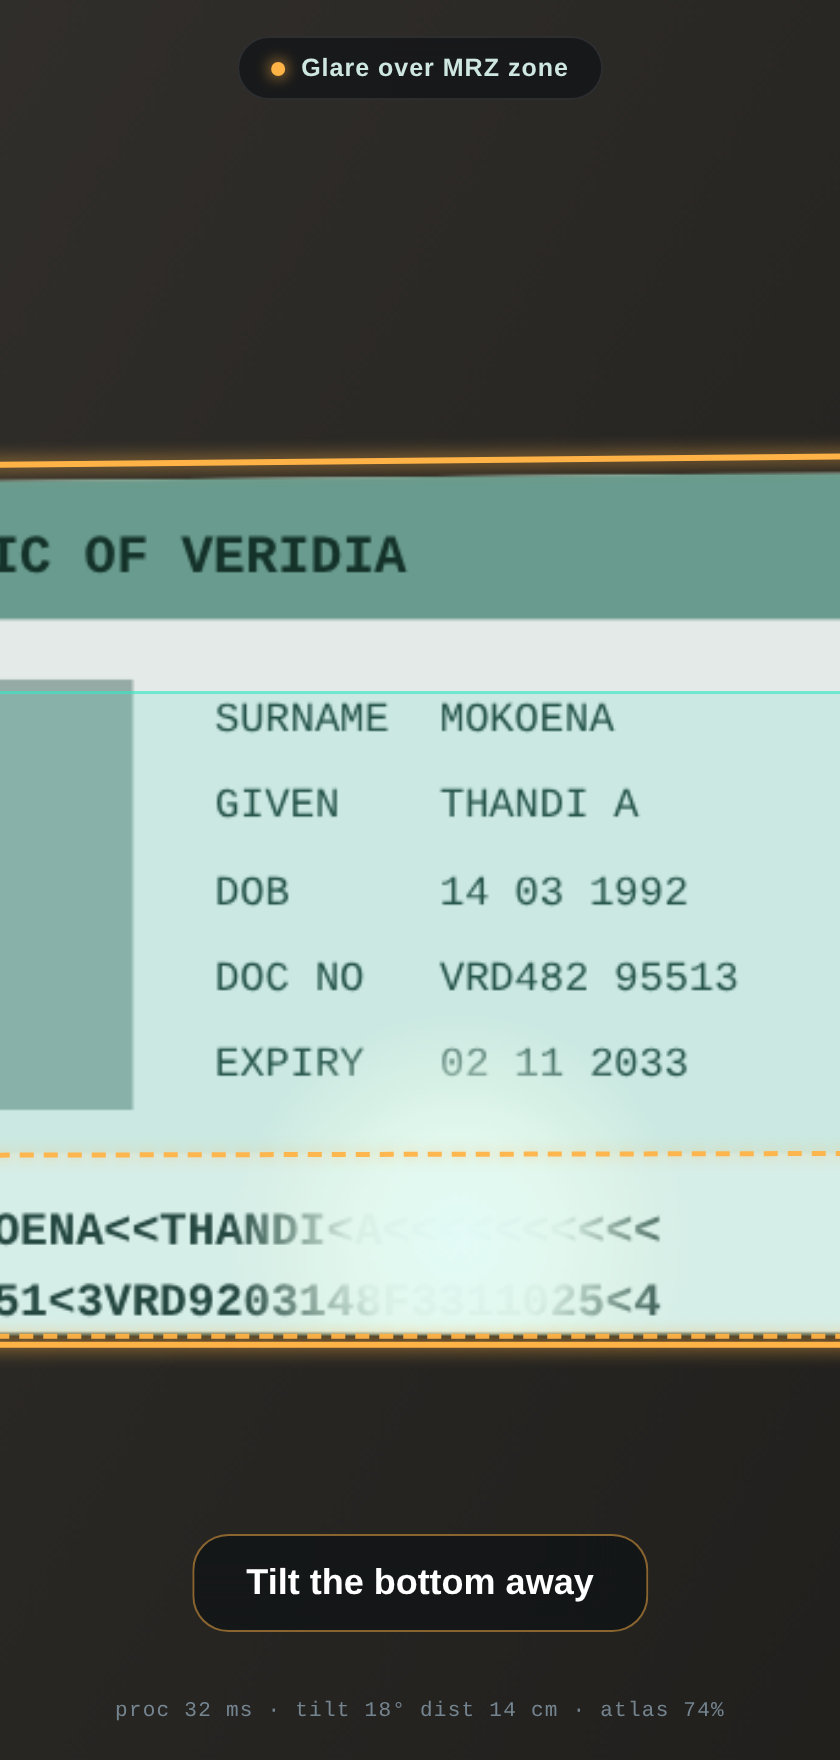
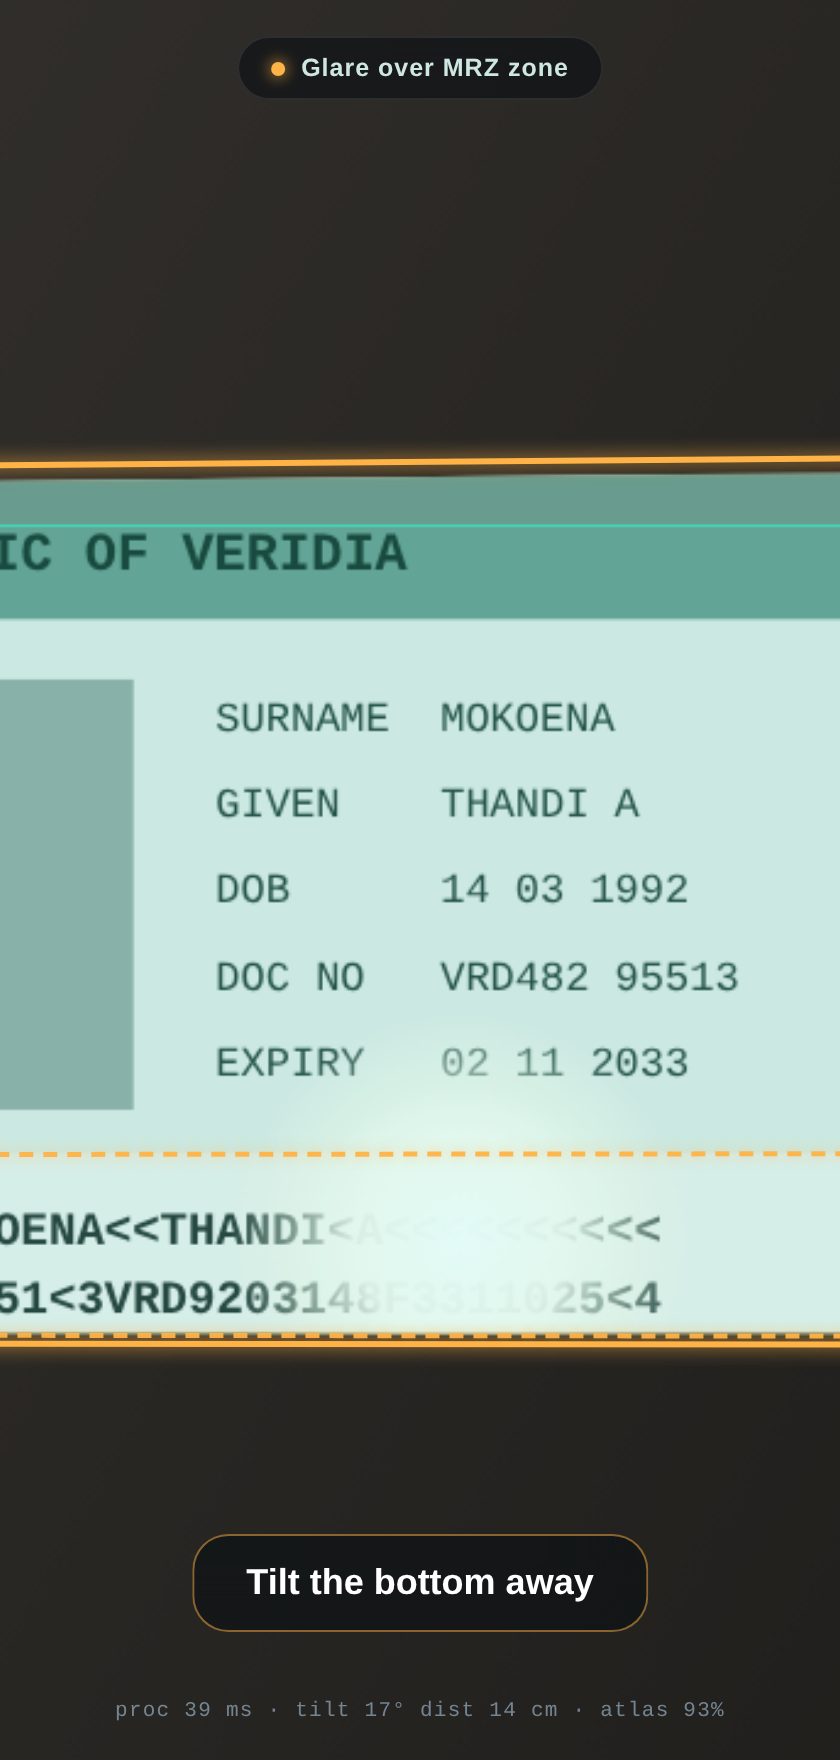
Stability pass from real-device feedback: smoother, calmer, faster
- Downscale processing frames to 960px (full-res getImageData was
  killing phone frame rates; headless proc time 33ms -> 5ms)
- Track-loss grace: outline holds through 12 missed detections instead
  of flickering off on a single dropped frame
- Competing-contour filter: a quad that teleports >18% of frame width
  is ignored unless it persists 5 frames
- Adaptive corner smoothing: heavy damping at rest, responsive in motion
- Coach debounce: new message needs 7 consistent frames, shown messages
  stay >=1.2s — no flapping
- Per-zone glare hysteresis (3-up/decay-down counter) so callouts don't
  strobe on borderline highlights
- Atlas sharpness now self-calibrates per zone relative to the best
  score seen this session instead of a fixed synthetic threshold

https://claude.ai/code/session_015UCbErKJk2oGsLNqDW1b71

diff --git a/web/js/app.js b/web/js/app.js
@@ -26,16 +26,35 @@ const state = {
   corners: null,           // smoothed corners (display space)
   lastCorners: null,
   stableFrames: 0,
+  lostFrames: 0,           // consecutive frames without an acceptable quad
+  jumpFrames: 0,           // consecutive frames where the quad jumped far away
+  pendingJump: null,       // candidate far-away quad (competing contour filter)
   atlas: null,
   pose: null,
   bestFrame: { score: -1, canvas: null },
   glareZones: [],
+  glareCounters: {},       // per-zone hysteresis counters
   coachMsg: { code: 'show', text: 'Show your ID.' },
+  coachCandidate: { code: null, frames: 0 },
+  coachShownAt: 0,
   frameCount: 0,
   t0: 0,
   procW: 0, procH: 0,      // processing frame size
   demo: null,
   lastInferMs: 0,
+};
+
+// stability tuning (real-device feel)
+const TUNE = {
+  maxProcWidth: 960,       // downscale capture for processing (phone perf)
+  lockFrames: 6,           // stable frames before LOCKED
+  graceFrames: 12,         // keep outline through this many missed detections
+  jumpFrac: 0.18,          // quad center jump > this fraction of width = suspect
+  jumpConfirm: 5,          // frames a far-away quad must persist to win
+  coachConfirmFrames: 7,   // frames a new message must persist before showing
+  coachMinShowMs: 1200,    // minimum time a shown message stays up
+  glareOn: 3, glareCap: 6, // zone glare hysteresis counter thresholds
+  analyzeEvery: 2,         // heavy UV analysis every Nth frame
 };
 
 // ---------- boot ----------
@@ -158,15 +177,18 @@ function drawDemoFrame() {
 const work = { src: null, cap: null };
 
 function grabFrame() {
-  let w, h, source;
+  let sw, sh, source;
   if (state.mode === 'demo') {
     source = drawDemoFrame();
-    w = source.width; h = source.height;
+    sw = source.width; sh = source.height;
   } else {
     source = els.video;
-    w = source.videoWidth; h = source.videoHeight;
-    if (!w) return null;
+    sw = source.videoWidth; sh = source.videoHeight;
+    if (!sw) return null;
   }
+  // downscale for processing — full-res getImageData murders phone frame rates
+  const scale = Math.min(1, TUNE.maxProcWidth / sw);
+  const w = Math.round(sw * scale), h = Math.round(sh * scale);
   if (!work.cap || work.cap.width !== w) {
     work.cap = document.createElement('canvas');
     work.cap.width = w; work.cap.height = h;
@@ -192,9 +214,28 @@ function loop() {
   requestAnimationFrame(loop);
 }
 
+function quadCenter(c) {
+  return { x: (c[0].x + c[1].x + c[2].x + c[3].x) / 4, y: (c[0].y + c[1].y + c[2].y + c[3].y) / 4 };
+}
+
 function processFrame(src) {
   state.frameCount++;
-  const quad = P.detectQuad(src);
+  let quad = P.detectQuad(src);
+
+  // competing-contour filter: while locked, a quad that teleports far away is
+  // probably a different rectangle in the scene — ignore unless it persists
+  if (quad && state.corners && state.phase === 'LOCKED') {
+    const jump = Math.hypot(
+      quadCenter(quad.corners).x - quadCenter(state.corners).x,
+      quadCenter(quad.corners).y - quadCenter(state.corners).y) / state.procW;
+    if (jump > TUNE.jumpFrac) {
+      state.jumpFrames++;
+      if (state.jumpFrames < TUNE.jumpConfirm) quad = null; // treat as miss (grace below keeps outline)
+      else { state.corners = quad.corners.map(p => ({ ...p })); state.jumpFrames = 0; }
+    } else {
+      state.jumpFrames = 0;
+    }
+  }
 
   // motion = mean corner displacement / frame width
   let motion = 0;
@@ -205,44 +246,58 @@ function processFrame(src) {
     }
     motion /= 4 * state.procW;
   }
-  state.lastCorners = quad ? quad.corners : null;
+  if (quad) state.lastCorners = quad.corners;
 
   if (!quad) {
     state.stableFrames = 0;
-    if (state.phase === 'LOCKED') state.phase = 'SEARCHING';
-    state.corners = null;
-    state.coachMsg = P.coach({ quad: null });
+    state.lostFrames++;
+    // grace period: hold the outline through brief detection dropouts
+    if (state.lostFrames > TUNE.graceFrames) {
+      if (state.phase === 'LOCKED') state.phase = 'SEARCHING';
+      state.corners = null;
+      state.lastCorners = null;
+      updateCoach('show', 'Show your ID.');
+    }
     return;
   }
+  state.lostFrames = 0;
 
-  // exponential smoothing for display corners
+  // adaptive smoothing: heavy damping at rest, responsive during motion
   if (!state.corners) state.corners = quad.corners.map(p => ({ ...p }));
   else {
-    const a = 0.45;
+    const a = Math.min(0.6, Math.max(0.15, 0.15 + motion * 6));
     for (let i = 0; i < 4; i++) {
       state.corners[i].x += a * (quad.corners[i].x - state.corners[i].x);
       state.corners[i].y += a * (quad.corners[i].y - state.corners[i].y);
     }
   }
 
-  state.stableFrames = motion < 0.02 ? state.stableFrames + 1 : 0;
-  if (state.phase === 'SEARCHING' && state.stableFrames >= 4) {
+  state.stableFrames = motion < 0.025 ? state.stableFrames + 1 : 0;
+  if (state.phase === 'SEARCHING' && state.stableFrames >= TUNE.lockFrames) {
     state.phase = 'LOCKED';
     haptic(30);
   }
 
-  // full analysis only when locked (and every frame — preview-res is cheap)
-  let glare = null, sharp = null;
-  if (state.phase === 'LOCKED') {
+  // heavy UV analysis only when locked, and only every Nth frame
+  if (state.phase === 'LOCKED' && state.frameCount % TUNE.analyzeEvery === 0) {
     const uv = P.rectify(src, quad.corners);
-    glare = P.analyzeGlare(uv);
-    sharp = P.analyzeSharpness(uv);
+    const glare = P.analyzeGlare(uv);
+    const sharp = P.analyzeSharpness(uv);
     state.pose = P.estimatePose(quad.corners, state.procW, state.procH);
     state.atlas.update(glare, sharp);
 
-    state.glareZones = Object.entries(glare.perZone)
-      .filter(([n, z]) => z.glared && P.ZONES[n].critical && !state.atlas.zoneState[n].clean)
-      .map(([n]) => n);
+    // per-zone glare hysteresis: a zone must be glared in several recent
+    // frames to surface, and clear for several to disappear
+    for (const [n, z] of Object.entries(glare.perZone)) {
+      const cnt = state.glareCounters[n] || 0;
+      state.glareCounters[n] = z.glared
+        ? Math.min(TUNE.glareCap, cnt + 1)
+        : Math.max(0, cnt - 1);
+    }
+    state.glareZones = Object.keys(P.ZONES)
+      .filter(n => P.ZONES[n].critical
+        && (state.glareCounters[n] || 0) >= TUNE.glareOn
+        && !state.atlas.zoneState[n].clean);
 
     // best-frame tracking: prefer frames with no critical glare + max sharpness
     const criticalGlare = Object.entries(glare.perZone).some(([n, z]) => z.glared && P.ZONES[n].critical);
@@ -255,15 +310,33 @@ function processFrame(src) {
       state.bestFrame.canvas = c;
     }
 
-    state.coachMsg = P.coach({ quad, pose: state.pose, glare, sharp, atlas: state.atlas, motion });
+    const msg = P.coach({ quad, pose: state.pose, glare, sharp, atlas: state.atlas, motion });
+    // suppress glare coaching unless the zone passed hysteresis
+    if (msg.code === 'glare' && !state.glareZones.includes(msg.zone)) updateCoach('ok', '');
+    else updateCoach(msg.code, msg.text);
     glare.mask.delete();
     uv.delete();
 
     if (state.atlas.criticalComplete && state.atlas.fillFrac > 0.9) {
       complete();
     }
-  } else {
-    state.coachMsg = P.coach({ quad, motion });
+  } else if (state.phase !== 'LOCKED') {
+    const msg = P.coach({ quad, motion });
+    updateCoach(msg.code, msg.text);
+  }
+}
+
+/** Debounced coaching: a new message must persist before it shows, and a
+ *  shown message stays up a minimum time — no flapping. */
+function updateCoach(code, text) {
+  if (code === state.coachMsg.code) { state.coachCandidate = { code: null, frames: 0 }; return; }
+  if (state.coachCandidate.code === code) state.coachCandidate.frames++;
+  else state.coachCandidate = { code, text, frames: 1 };
+  const shownLongEnough = performance.now() - state.coachShownAt > TUNE.coachMinShowMs;
+  if (state.coachCandidate.frames >= TUNE.coachConfirmFrames && shownLongEnough) {
+    state.coachMsg = { code, text };
+    state.coachShownAt = performance.now();
+    state.coachCandidate = { code: null, frames: 0 };
   }
 }
 

diff --git a/web/js/pipeline.js b/web/js/pipeline.js
@@ -43,6 +43,8 @@
     glareSatMax: 60,           // HSV S threshold
     glareZoneFracBad: 0.04,    // zone is "glared" if > 4% of its pixels glare
     sharpZoneMin: 150,         // Laplacian variance threshold per zone (calibrated by tests)
+    sharpAbsMin: 40,           // atlas: absolute floor for a zone to ever count as sharp
+    sharpRelFrac: 0.3,         // atlas: zone is sharp if score > rel-frac of best seen for that zone
     atlasCols: 16, atlasRows: 10,
     atlasGlareCellFrac: 0.06,  // cell glared if >6% pixels glare
     focalFovDeg: 68,           // assumed horizontal FOV when intrinsics unknown
@@ -288,17 +290,32 @@
     return out;
   }
 
-  /** Quality atlas: per-UV-cell accumulator across frames. */
+  /** Quality atlas: per-UV-cell accumulator across frames.
+   *  Sharpness gating is adaptive: a zone counts as sharp relative to the
+   *  best score seen for that zone this session (self-calibrates to the
+   *  device/lighting instead of trusting absolute thresholds). */
   class Atlas {
     constructor(cfg = CONFIG) {
       this.cfg = cfg;
       this.cols = cfg.atlasCols; this.rows = cfg.atlasRows;
       this.cells = new Array(this.cols * this.rows).fill(0); // 0=unseen,1=clean
       this.zoneState = {};
-      for (const name of Object.keys(ZONES)) this.zoneState[name] = { clean: false };
+      this.zoneMax = {};
+      for (const name of Object.keys(ZONES)) {
+        this.zoneState[name] = { clean: false };
+        this.zoneMax[name] = 0;
+      }
+    }
+    zoneSharp(name, sharp) {
+      const score = sharp.perZone[name].score;
+      if (score > this.zoneMax[name]) this.zoneMax[name] = score;
+      const thr = Math.max(this.cfg.sharpAbsMin, this.cfg.sharpRelFrac * this.zoneMax[name]);
+      return score >= thr;
     }
     /** Update from one frame's UV analyses. glare.mask must still be alive. */
     update(glare, sharp) {
+      const zoneSharpNow = {};
+      for (const name of Object.keys(ZONES)) zoneSharpNow[name] = this.zoneSharp(name, sharp);
       const cw = UV_W / this.cols, ch = UV_H / this.rows;
       for (let r = 0; r < this.rows; r++) {
         for (let c = 0; c < this.cols; c++) {
@@ -312,7 +329,7 @@
             // cell zone sharpness: use the zone the cell center falls into
             const u = (c + 0.5) / this.cols, v = (r + 0.5) / this.rows;
             const zname = zoneAt(u, v);
-            const zsharp = zname ? sharp.perZone[zname].sharp : sharp.overall >= this.cfg.sharpZoneMin;
+            const zsharp = zname ? zoneSharpNow[zname] : sharp.overall >= this.cfg.sharpAbsMin;
             if (zsharp) this.cells[i] = 1;
           }
         }
